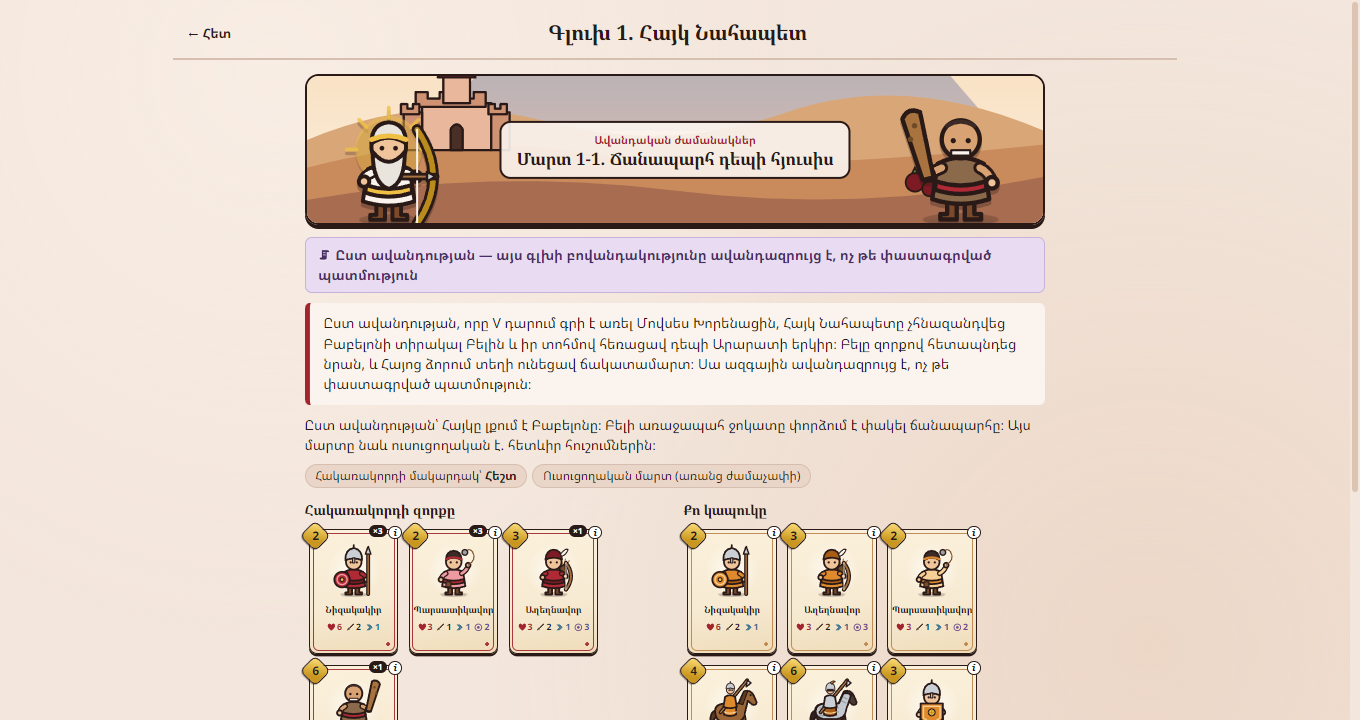
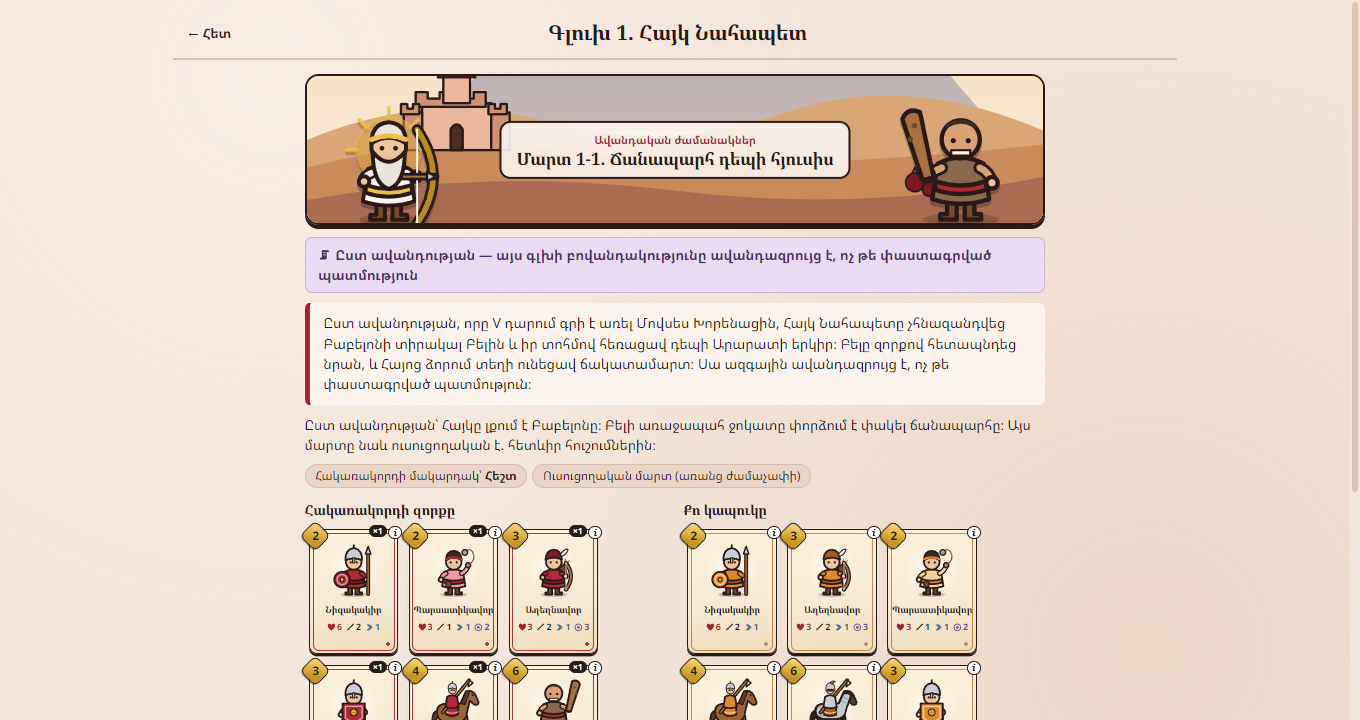
Արքաների Մարտ v1.4.1
Every deck holds 8 different cards (maxCopies = 1 for both sides); all 21 enemy campaign decks and free-battle presets rebuilt without duplicates.

Changed region(s): [[0.2779, 0.9167, 0.4632, 1.0], [0.2471, 0.9472, 0.2779, 1.0]]

diff --git a/src/data/campaign.js b/src/data/campaign.js
@@ -1,4 +1,5 @@
 // Campaign data: 7 chapters x 3 battles, enemy decks and short history texts (Armenian).
+// v1.4.1: every deck (enemy and preset) holds 8 DIFFERENT cards, like the player's (config.deckLimits.maxCopies = 1).
 // Battle n-1 -> Easy, n-2 -> Medium, n-3 (boss) -> Hard.
 
 const LEVEL_BY_INDEX = ['easy', 'medium', 'hard'];
@@ -29,91 +30,91 @@ export const CHAPTERS = [
     'hayk', 'giant', [
       { titleHy: 'Ճանապարհ դեպի հյուսիս', tutorial: true,
         introHy: 'Ըստ ավանդության՝ Հայկը լքում է Բաբելոնը։ Բելի առաջապահ ջոկատը փորձում է փակել ճանապարհը։ Այս մարտը նաև ուսուցողական է. հետևիր հուշումներին։',
-        deck: ['spearman', 'spearman', 'spearman', 'slinger', 'slinger', 'slinger', 'archer', 'giant'] },
+        deck: ['spearman', 'slinger', 'archer', 'shieldbearer', 'cavalry', 'giant', 'wall', 'horn'] },
       { titleHy: 'Վանա լճի ափին',
         introHy: 'Ըստ ավանդության՝ Բելի զորքը հասնում է Վանա լճի շրջակայք։ Հակառակորդի շարքերում հայտնվում են հսկաներ։',
-        deck: ['spearman', 'spearman', 'archer', 'archer', 'slinger', 'cavalry', 'giant', 'giant'] },
+        deck: ['spearman', 'archer', 'slinger', 'cavalry', 'shieldbearer', 'giant', 'horn', 'ararat'] },
       { titleHy: 'Հայոց ձորի ճակատամարտը',
         introHy: 'Ըստ ավանդության՝ վճռական մարտում Հայկն իր լայնալիճ աղեղով խոցում է Բելին։ Հաղթիր Բելին և բացիր «Հայկ Նահապետ» քարտը։',
-        deck: ['spearman', 'spearman', 'archer', 'archer', 'cavalry', 'giant', 'giant', 'boss_bel'] },
+        deck: ['spearman', 'archer', 'slinger', 'cavalry', 'shieldbearer', 'giant', 'ararat', 'boss_bel'] },
     ]),
   chapter(2, 'Արտաշես I', 'մ.թ.ա. II դար', false,
     'Մ.թ.ա. 190 թ. Մագնեսիայի ճակատամարտում Սելևկյան տերությունը պարտվեց Հռոմին։ Օգտվելով դրանից՝ Արտաշեսը մ.թ.ա. 189 թ. Մեծ Հայքը հռչակեց անկախ և հիմնեց Արտաշեսյան արքայատոհմը։ Նա միավորեց հայկական հողերը և Արաքսի ափին կառուցեց Արտաշատ մայրաքաղաքը։',
     'artashes', 'elephant', [
       { titleHy: 'Անկախության հռչակումը',
         introHy: 'Սելևկյան կայազորները դեռ մնում են երկրում։ Պետք է դուրս մղել նրանց։',
-        deck: ['spearman', 'spearman', 'archer', 'slinger', 'cavalry', 'cavalry', 'shieldbearer', 'elephant'] },
+        deck: ['spearman', 'archer', 'slinger', 'cavalry', 'shieldbearer', 'elephant', 'wall', 'horn'] },
       { titleHy: 'Հողերի միավորումը',
         introHy: 'Արտաշեսը միավորում է հայկական երկրամասերը։ Հակառակորդը մարտի է նետում մարտական փղեր։',
-        deck: ['spearman', 'spearman', 'archer', 'archer', 'cavalry', 'shieldbearer', 'elephant', 'elephant'] },
+        deck: ['spearman', 'archer', 'slinger', 'cavalry', 'shieldbearer', 'elephant', 'cataphract', 'ararat'] },
       { titleHy: 'Սելևկյան զորավարի դեմ',
         introHy: 'Սելևկյանները փորձում են վերականգնել իրենց իշխանությունը։ Հաղթիր զորավարին և բացիր «Արտաշես I» քարտը։',
-        deck: ['spearman', 'archer', 'archer', 'shieldbearer', 'cavalry', 'elephant', 'elephant', 'boss_seleucid'] },
+        deck: ['spearman', 'archer', 'cavalry', 'shieldbearer', 'elephant', 'cataphract', 'ararat', 'boss_seleucid'] },
     ]),
   chapter(3, 'Տիգրան Մեծ', 'մ.թ.ա. I դար', false,
     'Տիգրան II Մեծի օրոք (մ.թ.ա. 95–55) Հայաստանը դարձավ Առաջավոր Ասիայի հզորագույն տերություններից մեկը։ Մ.թ.ա. 69 թ. հռոմեացի զորավար Լուկուլլոսը ներխուժեց Հայաստան և պաշարեց Տիգրանակերտը։ Պատմական ճակատամարտում հայկական զորքը պարտվեց, սակայն Հռոմը չկարողացավ նվաճել երկիրը. խաղում դու կարող ես փորձել այլ ելք։',
     'tigran', 'legionary', [
       { titleHy: 'Հռոմեական առաջապահը',
         introHy: 'Հռոմեական լեգեոններն անցնում են Եփրատը։ Լեգեոներները լավ պաշտպանված են նետերից. նրանց դեմ պետք է մերձամարտ։',
-        deck: ['legionary', 'legionary', 'legionary', 'archer', 'archer', 'slinger', 'cavalry', 'spearman'] },
+        deck: ['legionary', 'spearman', 'archer', 'slinger', 'cavalry', 'shieldbearer', 'horn', 'wall'] },
       { titleHy: 'Տիգրանակերտի մատույցներում',
         introHy: 'Հռոմեացիները մոտենում են մայրաքաղաքին։ Նրանց զորքը կարգապահ է և լավ զինված։',
-        deck: ['legionary', 'legionary', 'legionary', 'archer', 'archer', 'cavalry', 'cavalry', 'vahagn'] },
+        deck: ['legionary', 'spearman', 'archer', 'cavalry', 'cataphract', 'shieldbearer', 'vahagn', 'ararat'] },
       { titleHy: 'Տիգրանակերտի ճակատամարտը',
         introHy: 'Մ.թ.ա. 69 թ. հոկտեմբեր. Լուկուլլոսի բանակը կանգնած է Տիգրանակերտի պարիսպների մոտ։ Հաղթիր Լուկուլլոսին և բացիր «Տիգրան Մեծ» քարտը։',
-        deck: ['legionary', 'legionary', 'legionary', 'archer', 'archer', 'cavalry', 'cataphract', 'boss_lucullus'] },
+        deck: ['legionary', 'archer', 'cavalry', 'cataphract', 'shieldbearer', 'vahagn', 'ararat', 'boss_lucullus'] },
     ]),
   chapter(4, 'Ավարայր, 451', 'V դար', false,
     'V դարի կեսին Սասանյան արքա Հազկերտ II-ը պահանջեց, որ հայերը հրաժարվեն քրիստոնեությունից։ 449 թ. Արտաշատի ժողովը մերժեց պահանջը, և 451 թ. մայիսի 26-ին Ավարայրի դաշտում սպարապետ Վարդան Մամիկոնյանի զորքը մարտնչեց թվով գերազանցող պարսից բանակի դեմ։ Վարդանը զոհվեց, բայց պայքարը շարունակվեց, և 484 թ. Նվարսակի պայմանագրով հայերը պահպանեցին իրենց հավատը։',
     'vardan', 'immortal', [
       { titleHy: 'Արտաշատի ժողովից հետո',
         introHy: 'Պարսից առաջին ջոկատները մտնում են երկիր։ «Անմահները» մեկ անգամ վերադառնում են մարտի՝ պատրաստ եղիր դրան։',
-        deck: ['immortal', 'immortal', 'spearman', 'spearman', 'archer', 'archer', 'cavalry', 'slinger'] },
+        deck: ['immortal', 'spearman', 'archer', 'slinger', 'cavalry', 'shieldbearer', 'horn', 'ararat'] },
       { titleHy: 'Տղմուտ գետի ափին',
         introHy: 'Երկու բանակները կանգնած են Տղմուտ գետի հանդիպակաց ափերին։ Պարսից զորքն ունի մարտական փղեր։',
-        deck: ['immortal', 'immortal', 'immortal', 'archer', 'archer', 'cavalry', 'elephant', 'shieldbearer'] },
+        deck: ['immortal', 'archer', 'cavalry', 'elephant', 'shieldbearer', 'cataphract', 'vahagn', 'ararat'] },
       { titleHy: 'Ավարայրի ճակատամարտը',
         introHy: '451 թ. մայիսի 26. վճռական մարտը։ Հաղթիր պարսից զորավարին և բացիր «Վարդան Մամիկոնյան» քարտը։',
-        deck: ['immortal', 'immortal', 'immortal', 'archer', 'archer', 'elephant', 'cataphract', 'boss_persian'] },
+        deck: ['immortal', 'archer', 'cavalry', 'elephant', 'cataphract', 'shieldbearer', 'vahagn', 'boss_persian'] },
     ]),
   chapter(5, 'Բագրատունիներ', 'IX–X դարեր', false,
     '885 թ. Աշոտ I Բագրատունին ճանաչվեց հայոց թագավոր. շուրջ չորս դար անց վերականգնվեց հայկական թագավորությունը։ Նրա թոռը՝ Աշոտ II Երկաթը (914–928), տարիներ շարունակ պայքարեց Ատրպատականի ամիրա Յուսուֆի և այլ արաբական ամիրաների դեմ ու ամրապնդեց երկրի անկախությունը։ Այս գլուխը նվիրված է հենց Աշոտ Երկաթի պայքարին։',
     'ashot', 'camelrider', [
       { titleHy: 'Ասպատակություն',
         introHy: 'Ամիրայի արագաշարժ ջոկատներն ասպատակում են գավառները։ Ուղտավոր հեծյալները շատ արագ են՝ պաշտպանիր աշտարակներդ։',
-        deck: ['camelrider', 'camelrider', 'spearman', 'spearman', 'archer', 'archer', 'slinger', 'cavalry'] },
+        deck: ['camelrider', 'spearman', 'archer', 'slinger', 'cavalry', 'shieldbearer', 'horn', 'wall'] },
       { titleHy: 'Սևանի ափին',
         introHy: 'Աշոտ Երկաթն ամրանում է Սևանա կղզում։ Հակառակորդը մեծ ուժերով մոտենում է լճի ափին։',
-        deck: ['camelrider', 'camelrider', 'camelrider', 'cavalry', 'cavalry', 'archer', 'archer', 'horn'] },
+        deck: ['camelrider', 'cavalry', 'archer', 'cataphract', 'spearman', 'shieldbearer', 'horn', 'vahagn'] },
       { titleHy: 'Ոստիկանի դեմ',
         introHy: 'Վճռական մարտ արաբ ոստիկանի զորքի դեմ։ Հաղթիր նրան և բացիր «Աշոտ Երկաթ» քարտը։',
-        deck: ['camelrider', 'camelrider', 'camelrider', 'cavalry', 'cavalry', 'archer', 'archer', 'boss_ostikan'] },
+        deck: ['camelrider', 'cavalry', 'archer', 'cataphract', 'shieldbearer', 'horn', 'vahagn', 'boss_ostikan'] },
     ]),
   chapter(6, 'Դավիթ Բեկ', 'XVIII դար', false,
     '1722 թ. Դավիթ Բեկը գլխավորեց Սյունիքի հայերի ազատագրական պայքարը և Կապանում ստեղծեց հայկական իշխանություն։ Լեռները և ամրոցները նրա գլխավոր դաշնակիցներն էին. 1727 թ. Հալիձորի բերդի մոտ սակավաթիվ պաշտպանները հաղթեցին օսմանյան մեծ զորքին։ Դավիթ Բեկի մահից հետո (1728) պայքարը շարունակեց Մխիթար Սպարապետը։',
     'davitbek', 'cannon', [
       { titleHy: 'Կապանի լեռներում',
         introHy: 'Հակառակորդը մտնում է Սյունիքի կիրճերը։ Նրա թնդանոթները կրակում են հեռվից, բայց անշարժ են։',
-        deck: ['cannon', 'spearman', 'spearman', 'archer', 'archer', 'cavalry', 'shieldbearer', 'slinger'] },
+        deck: ['cannon', 'spearman', 'archer', 'cavalry', 'shieldbearer', 'slinger', 'wall', 'horn'] },
       { titleHy: 'Ամրոցների պաշտպանությունը',
         introHy: 'Թշնամին պաշարում է լեռնային բերդերը։ Օգտագործիր սեփական աշտարակների մոտ կռվելու առավելությունը։',
-        deck: ['cannon', 'cannon', 'spearman', 'spearman', 'archer', 'cavalry', 'cavalry', 'wall'] },
+        deck: ['cannon', 'spearman', 'archer', 'cavalry', 'cataphract', 'shieldbearer', 'wall', 'archertower'] },
       { titleHy: 'Հալիձորի ճակատամարտը',
         introHy: '1727 թ. Հալիձորի բերդը պաշարված է։ Հաղթիր թշնամու զորավարին և բացիր «Դավիթ Բեկ» քարտը։',
-        deck: ['cannon', 'cannon', 'cavalry', 'cavalry', 'archer', 'cataphract', 'shieldbearer', 'boss_warlord6'] },
+        deck: ['cannon', 'cavalry', 'archer', 'cataphract', 'shieldbearer', 'archertower', 'vahagn', 'boss_warlord6'] },
     ]),
   chapter(7, 'Մայիսյան հերոսամարտեր, 1918', '1918 թ. մայիս', false,
     '1918 թ. մայիսին օսմանյան բանակը շարժվում էր դեպի Երևան և Արարատյան դաշտ։ Սարդարապատում, Բաշ Ապարանում և Ղարաքիլիսայում կանոնավոր զորամասերը և ժողովրդական աշխարհազորը միասին կանգնեցրին այդ առաջխաղացումը։ Դա ողջ ժողովրդի հավաքական պաշտպանությունն էր, որից հետո՝ մայիսի 28-ին, հռչակվեց Հայաստանի Հանրապետությունը։',
     'sardarapat', null, [
       { titleHy: 'Բաշ Ապարան',
         introHy: 'Մայիսի 23–29. հակառակորդը փորձում է հյուսիսից շրջանցել և դուրս գալ Երևանի վրա։ Ճանապարհը պետք է փակել։',
-        deck: ['spearman', 'spearman', 'archer', 'archer', 'cavalry', 'cavalry', 'cannon', 'slinger'] },
+        deck: ['spearman', 'archer', 'cavalry', 'cannon', 'slinger', 'shieldbearer', 'horn', 'ararat'] },
       { titleHy: 'Ղարաքիլիսա',
         introHy: 'Մայիսի 25–28. ծանր, անհավասար մարտեր Ղարաքիլիսայի մոտ, որոնք կասեցրին հակառակորդի շարժումը։',
-        deck: ['cavalry', 'cavalry', 'archer', 'archer', 'cannon', 'cannon', 'cataphract', 'vahagn'] },
+        deck: ['cavalry', 'archer', 'cannon', 'cataphract', 'shieldbearer', 'archertower', 'vahagn', 'anahit'] },
       { titleHy: 'Սարդարապատ',
         introHy: 'Մայիսի 21–29. վճռական ճակատամարտը Սարդարապատի մոտ։ Հաղթիր և բացիր «Սարդարապատի զորախումբ» քարտը։',
-        deck: ['cavalry', 'cavalry', 'archer', 'archer', 'cannon', 'cannon', 'cataphract', 'boss_warlord7'] },
+        deck: ['cavalry', 'archer', 'cannon', 'cataphract', 'shieldbearer', 'archertower', 'vahagn', 'boss_warlord7'] },
     ]),
 ];
 
@@ -128,9 +129,9 @@ export function nextBattleId(id) {
 // AI deck presets for Free Battle and for self-play (--deckA / --deckB)
 export const DECK_PRESETS = {
   starter: { nameHy: 'Սկզբնական կապուկ', cards: ['spearman', 'archer', 'slinger', 'cavalry', 'cataphract', 'shieldbearer', 'vahagn', 'ararat'] },
-  cavalry: { nameHy: 'Հեծելազոր', cards: ['cavalry', 'cavalry', 'cavalry', 'cataphract', 'cataphract', 'spearman', 'horn', 'ararat'] },
-  archers: { nameHy: 'Նետաձիգներ', cards: ['archer', 'archer', 'archer', 'slinger', 'shieldbearer', 'shieldbearer', 'archertower', 'vahagn'] },
-  fortress: { nameHy: 'Ամրոց', cards: ['spearman', 'spearman', 'archer', 'archer', 'wall', 'archertower', 'cataphract', 'anahit'] },
-  heroes: { nameHy: 'Հերոսներ', cards: ['tigran', 'hayk', 'spearman', 'spearman', 'archer', 'cavalry', 'shieldbearer', 'vahagn'] },
+  cavalry: { nameHy: 'Հեծելազոր', cards: ['cavalry', 'cataphract', 'spearman', 'shieldbearer', 'archer', 'horn', 'ararat', 'anahit'] },
+  archers: { nameHy: 'Նետաձիգներ', cards: ['archer', 'slinger', 'shieldbearer', 'spearman', 'archertower', 'wall', 'vahagn', 'anahit'] },
+  fortress: { nameHy: 'Ամրոց', cards: ['spearman', 'archer', 'shieldbearer', 'cataphract', 'wall', 'archertower', 'anahit', 'ararat'] },
+  heroes: { nameHy: 'Հերոսներ', cards: ['tigran', 'hayk', 'spearman', 'archer', 'cavalry', 'shieldbearer', 'vahagn', 'ararat'] },
   ...Object.fromEntries(CHAPTERS.map(c => [`boss${c.id}`, { nameHy: `Գլուխ ${c.id}-ի բոսը`, cards: c.battles[2].aiDeck }])),
 };

diff --git a/tests/engine.test.js b/tests/engine.test.js
@@ -239,7 +239,9 @@ test('deck validation', () => {
   assert.equal(validateDeck(['vahagn', 'vahagn', 'vahagn', 'spearman', 'archer', 'slinger', 'cavalry', 'ararat'], CONFIG).ok, false);
   assert.equal(validateDeck(['hayk', 'hayk', 'spearman', 'spearman', 'archer', 'slinger', 'cavalry', 'ararat'], CONFIG).ok, false);
   assert.equal(validateDeck(['hayk', 'tigran', 'vardan', 'spearman', 'archer', 'slinger', 'cavalry', 'ararat'], CONFIG).ok, false);
-  assert.ok(validateDeck(['hayk', 'sardarapat', 'spearman', 'spearman', 'spearman', 'archer', 'wall', 'wall'], CONFIG).ok);
+  assert.ok(validateDeck(['hayk', 'sardarapat', 'spearman', 'slinger', 'cavalry', 'archer', 'wall', 'vahagn'], CONFIG).ok);
+  assert.equal(validateDeck(['spearman', 'spearman', 'archer', 'slinger', 'cavalry', 'shieldbearer', 'vahagn', 'ararat'], CONFIG).ok, false);  // v1.4.1: no copies
+  assert.equal(validateDeck(['wall', 'wall', 'archer', 'slinger', 'cavalry', 'shieldbearer', 'vahagn', 'ararat'], CONFIG).ok, false);
   assert.equal(validateDeck(STARTER_DECK.slice(0, 7).concat('hayk'), CONFIG, STARTER_DECK).ok, false);  // not unlocked
 });
 

diff --git a/src/data/config.js b/src/data/config.js
@@ -28,7 +28,9 @@ export const CONFIG = {
   newUnitCanAttack: true,
   turnTimerSeconds: 8,            // planning phase length; options in settings: 5, 8, 12, off (0)
   deckSize: 8, handSize: 4,
-  deckLimits: { maxLegendary: 2, maxCopies: { soldier: 3, spell: 2, building: 2, hero: 1, special: 1 } },
+  // v1.4.1: one copy of every card (8 different cards) for both sides. Before, enemy decks held 2–3 copies of
+  // cheap units (e.g. archers) and could cycle them much faster than the player's all-different starter deck.
+  deckLimits: { maxLegendary: 2, maxCopies: { soldier: 1, spell: 1, building: 1, hero: 1, special: 1 } },
   // NOTE: the original design used range 2 for both towers. Self-play showed that range 2 makes the game an
   // almost certain draw (see docs/DECISIONS.md and docs/experiments/6_rule_variants.md), so the default is 1.
   // v1.2 balance pass: tower attack lowered from 2 / 3 to 1 / 2 (shorter games, the King's castle falls more often;

diff --git a/src/ui/screens/deck.js b/src/ui/screens/deck.js
@@ -41,7 +41,7 @@ export function deckScreen(app, params = {}) {
             }, 'Պահպանել'))),
         h('section.panel', {},
           h('h3', {}, 'Հասանելի քարտեր'),
-          h('p.hint', {}, `Սահմանափակումներ. զինվոր՝ մինչև ${limits.maxCopies.soldier} օրինակ, հմայք և կառույց՝ մինչև ${limits.maxCopies.spell}, հերոս՝ 1, ընդամենը ${limits.maxLegendary} լեգենդար քարտ։`),
+          h('p.hint', {}, `Սահմանափակումներ. կապուկի բոլոր ${CONFIG.deckSize} քարտերը պետք է տարբեր լինեն (նույնը վերաբերում է հակառակորդին), ընդամենը ${limits.maxLegendary} լեգենդար քարտ։`),
           ['soldier', 'hero', 'special', 'spell', 'building'].map(type => {
             const ids = pool.filter(id => CARDS[id].type === type);
             if (!ids.length) return null;

diff --git a/src/data/cards.js b/src/data/cards.js
@@ -150,7 +150,7 @@ export function validateDeck(deck, cfg, allowed = null) {
   for (const id of Object.keys(counts)) {
     const def = CARDS[id];
     const max = cfg.deckLimits.maxCopies[def.type];
-    if (counts[id] > max) errors.push(`«${def.nameHy}»՝ առավելագույնը ${max} օրինակ։`);
+    if (counts[id] > max) errors.push(max === 1 ? `«${def.nameHy}» քարտը կրկնվում է. բոլոր քարտերը պետք է տարբեր լինեն։` : `«${def.nameHy}»՝ առավելագույնը ${max} օրինակ։`);
   }
   if (legendary > cfg.deckLimits.maxLegendary) errors.push(`Առավելագույնը ${cfg.deckLimits.maxLegendary} լեգենդար քարտ (հերոս/հատուկ)։`);
   return { ok: errors.length === 0, errors };

diff --git a/src/ui/main.js b/src/ui/main.js
@@ -13,7 +13,7 @@ import { resultScreen } from './screens/result.js';
 import { howtoScreen } from './screens/howto.js';
 import { statsScreen } from './screens/stats.js';
 
-export const VERSION = '1.4.0';
+export const VERSION = '1.4.1';
 
 const SCREENS = {
   menu: menuScreen, splash: splashScreen, campaign: campaignScreen, intro: introScreen, free: freeBattleScreen, deck: deckScreen,

diff --git a/docs/DECISIONS.md b/docs/DECISIONS.md
@@ -371,3 +371,13 @@ node tools/balance.js --games=40 --only=base --hard --mctsMs=1000               
 - `npm run smoke` (Electron UI) անցնում է v1.4-ի կոդով։
 - `node tools/experiments.js --mctsMs=1000` (62 րոպե) թարմացրեց բոլոր 7 աղյուսակները. փորձ 6-ը վերագրվեց v1.4-ի համար։
 - `ArqaneriMart-1.4.0-portable.exe`-ն անցնում է ինքնաստուգումը (`ARQ_SELFTEST=1`)։
+
+### v1.4.1 — բոլոր կապուկները՝ 8 տարբեր քարտ (2026-11-17)
+
+**Ինչու.** Հեղինակի խաղի փորձը. թշնամին կարողանում էր իրար հետևից աղեղնավորներ դնել, իսկ խաղացողը՝ ոչ։ Պատճառը. խաղացողի սկզբնական կապուկը 8 տարբեր քարտ ունի, իսկ արշավի թշնամական կապուկներում նույն էժան զորքը 2–3 անգամ էր կրկնվում (օրինակ՝ 2 աղեղնավոր, 3 լեգեոներ), ուստի այն շատ ավելի հաճախ էր գալիս ձեռք։
+
+**Ինչ փոխվեց.** `deckLimits.maxCopies`-ը բոլոր տեսակների համար դարձավ 1 (նախկինում՝ զինվոր 3, հմայք և կառույց 2). կանոնը նույնն է երկու կողմի համար։ Արշավի 21 թշնամական կապուկները և Ազատ մարտի պատրաստի կապուկները վերակազմվեցին 8 տարբեր քարտով. ամեն գլխի բնորոշ զորքը (հսկա, փիղ, լեգեոներ, անմահ, ուղտավոր, թնդանոթ) և բոսը պահպանվել են, կրկնությունների փոխարեն ավելացել են վահանակիր, հմայքներ և կառույցներ։ Քարտերի բնութագրերը չեն փոխվել։
+
+**Սահմանափակումներ.** արշավի նոր կապուկների դժվարությունը ինքնախաղով չի չափվել (փորձ 1–3 և 5–7-ը օգտագործում են սկզբնական կապուկը, ուստի դրանց թվերը չեն փոխվում). փորձ 4-ը (քարտերի հավասարակշռություն) չափվել է հին սահմանափակումներով և նորից չի գործարկվել։ Խաղացողի պահված կապուկը, եթե կրկնվող քարտեր ունի, արշավում փոխարինվում է սկզբնականով, մինչև խմբագրիչում ուղղվի։
+
+**Ստուգում.** 64 unit թեստ և `npm run smoke` անցնում են։ Արագ ստուգում նոր կապուկներով (4 խաղ ամեն մարտի համար. «խաղացողը»՝ Միջին AI սկզբնական կապուկով, թշնամին՝ մարտի իր մակարդակով, բոսը՝ MCTS 300 մվ). Հեշտ մարտերում «խաղացողը» հաղթում է 27/28, Միջին մարտերում՝ 5/28 (3 ոչ-ոքի), բոսերի դեմ՝ 1/28. սխալներ չկան։ Սա միայն ցույց է տալիս, որ կապուկները խաղարկելի են և դժվարությունն աճում է. իրական խաղացողն ունի նաև հերոսների քարտեր, իսկ 4 խաղը հավասարակշռության մասին եզրակացության համար քիչ է։

diff --git a/docs/RULES.md b/docs/RULES.md
@@ -141,7 +141,7 @@ AI-ը խաղում է ճիշտ նույն կանոններով՝ նույն ոս
 ## 8. Կապուկ
 
 - Կապուկը ուղիղ **8 քարտ** է, ձեռքում՝ **4 քարտ**։
-- Սահմանափակումներ. զինվոր՝ մինչև 3 օրինակ, հմայք և կառույց՝ մինչև 2, հերոս և հատուկ՝ 1 օրինակ, կապուկում առավելագույնը 2 լեգենդար քարտ։
+- Սահմանափակումներ. կապուկի բոլոր 8 քարտերը տարբեր են (ամեն քարտից՝ 1 օրինակ), կապուկում առավելագույնը 2 լեգենդար քարտ։ Նույն կանոնը գործում է հակառակորդի համար. արշավի բոլոր թշնամական կապուկները նույնպես 8 տարբեր քարտ ունեն (v1.4.1)։
 - Սկզբնական կապուկ (առանց հերոսի). Նիզակակիր, Աղեղնավոր, Պարսատիկավոր, Հեծյալ, Զրահավոր հեծյալ, Վահանակիր, Վահագնի կրակ, Արարատի օրհնություն։
 - **Բացումներ.** յուրաքանչյուր բոսի հաղթելը բացում է գլխի հերոսին (7-րդ գլուխը՝ «Սարդարապատի զորախումբը»)։ Սովորական մարտերի առաջին հաղթանակները հերթով բացում են՝ Ռազմական փող → Անահիտի պաշտպանություն → Նետաձիգների աշտարակ → Ամրացված պատ։
 - **Կապուկի խմբագրիչը** բացվում է 1-3 մարտը հաղթելուց հետո։

diff --git a/README.md b/README.md
@@ -95,7 +95,7 @@ npm run icon
 npm run dist
 ```
 
-`npm run icon`-ը նկարում է խաղի զինանշանը և ստեղծում `build/icon.ico`, `build/icon.png`, `assets/icon.png` ֆայլերը։ `npm run dist`-ը `dist/` պանակում ստեղծում է `ArqaneriMart-1.4.0-portable.exe` (առանց տեղադրման) և `ArqaneriMart-1.4.0-setup.exe` (տեղադրիչ՝ աշխատասեղանի պատկերակով)։ Առաջին անգամ պահանջվում է ինտերնետ (electron-builder-ը ներբեռնում է իր գործիքները)։
+`npm run icon`-ը նկարում է խաղի զինանշանը և ստեղծում `build/icon.ico`, `build/icon.png`, `assets/icon.png` ֆայլերը։ `npm run dist`-ը `dist/` պանակում ստեղծում է `ArqaneriMart-1.4.1-portable.exe` (առանց տեղադրման) և `ArqaneriMart-1.4.1-setup.exe` (տեղադրիչ՝ աշխատասեղանի պատկերակով)։ Առաջին անգամ պահանջվում է ինտերնետ (electron-builder-ը ներբեռնում է իր գործիքները)։
 
 ## Նախագծի կառուցվածքը
 

diff --git a/docs/FRIENDS.md b/docs/FRIENDS.md
@@ -4,12 +4,12 @@
 
 ## Տարբերակ 1. առանց տեղադրման
 
-1. Պահիր `ArqaneriMart-1.4.0-portable.exe` ֆայլը ցանկացած պանակում (օրինակ՝ աշխատասեղանին)։
+1. Պահիր `ArqaneriMart-1.4.1-portable.exe` ֆայլը ցանկացած պանակում (օրինակ՝ աշխատասեղանին)։
 2. Կրկնակի սեղմիր ֆայլին։ Առաջին գործարկումը տևում է մի քանի վայրկյան։
 
 ## Տարբերակ 2. տեղադրիչով
 
-1. Գործարկիր `ArqaneriMart-1.4.0-setup.exe` ֆայլը և հետևիր քայլերին։
+1. Գործարկիր `ArqaneriMart-1.4.1-setup.exe` ֆայլը և հետևիր քայլերին։
 2. Աշխատասեղանին կհայտնվի «Արքաների Մարտ» պատկերակը։
 
 ## Եթե Windows-ը զգուշացնում է
